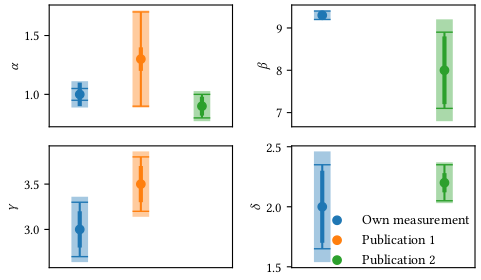
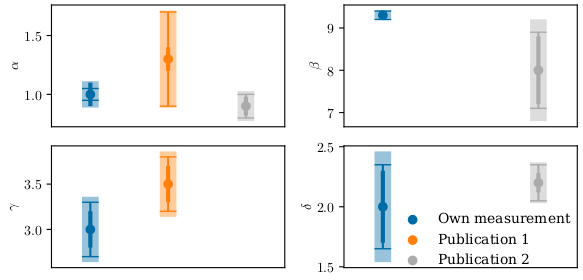
Updated README, fixed CompareMeasurementsPlot facecolor bug, changed example figures background from transparent to white

diff --git a/examples/compare_results.py b/examples/compare_results.py
@@ -38,7 +38,7 @@ def get_example_measurements():
 @timer
 def make_plot(measurements, **kwargs):
     compare_plot = CompareMeasurementsPlot(*measurements, **kwargs)
-    fig, axs, handles, labels = compare_plot.plot(ncols=3)
+    fig, axs, handles, labels = compare_plot.plot(ncols=2)
     fig.legend(handles, labels, loc="lower right", bbox_to_anchor=(0.985, 0.035), frameon=False)
     fig.tight_layout()
 
@@ -47,11 +47,11 @@ def make_plot(measurements, **kwargs):
 
 if __name__ == "__main__":
     # from visdata.plotting.matplotlib_util import latex_output, save_plot
-    # with latex_output():
+    # with latex_output(figsize=(6, 3), style="tableau-colorblind10"):
     measurements = get_example_measurements()
     fig = make_plot(measurements)
-    # save_plot(fig, "compare_measurements.pdf")
-    # save_plot(fig, "compare_measurements.png")
+    # save_plot(fig, "./doc/figs/compare_measurements.pdf", transparent=False)
+    # save_plot(fig, "./doc/figs/compare_measurements.png", transparent=False)
     plt.show()
 
     # config = MeasurementResultPlotConfig()

diff --git a/examples/profile2d.py b/examples/profile2d.py
@@ -77,7 +77,7 @@ if __name__ == "__main__":
     compare_to_old_filter = False
 
     # from visdata.plotting.matplotlib_util import latex_output, save_plot
-    # with latex_output():
+    # with latex_output(style="tableau-colorblind10"):
 
     # Example with random data
     n_events = 500
@@ -89,7 +89,8 @@ if __name__ == "__main__":
     ax.set_ylim(-0.3, 0.3)
 
     plt.show()
-    # save_plot(fig, "profile2d_example_1.png")
+    # save_plot(fig, "./doc/figs/profile2d_example_1.pdf", transparent=False)
+    # save_plot(fig, "./doc/figs/profile2d_example_1.png", transparent=False)
 
     # Example with predefined data
     x, y = create_fixed_hist2d_data()
@@ -98,4 +99,5 @@ if __name__ == "__main__":
     ax.set_ylabel(r"$(S_\text{meas} - S_\text{mod})/\text{mV}$")
 
     plt.show()
-    # save_plot(fig, "profile2d_example_2.png")
+    # save_plot(fig, "./doc/figs/profile2d_example_2.pdf", transparent=False)
+    # save_plot(fig, "./doc/figs/profile2d_example_2.png", transparent=False)

diff --git a/src/visdata/plotting/compare_results.py b/src/visdata/plotting/compare_results.py
@@ -107,6 +107,7 @@ class MeasurementResult:
             self.value,
             label=label,
             color=color,
+            edgecolor="face",
             marker=marker,
             **config.value,
         )

diff --git a/README.md b/README.md
@@ -2,7 +2,12 @@
 
 **Useful tools for data visualisation, e.g. 2D-profiles, comparison of measurements, or tables.**
 
-Developed and maintained by Philipp Meder.
+***This package is still under development. The features work, but the API might change in the future.***
+
+Developed and maintained by [Philipp Meder](https://github.com/philippmeder).
+
+* **Source code:** https://github.com/philippmeder/visdata
+* **Report bugs:** https://github.com/philippmeder/visdata/issues
 
 ## License
 
@@ -11,14 +16,14 @@ Distributed under the [BSD 3-Clause License](./LICENSE).
 ## Features
 
 This README covers the following:
-1. [Profile2d plot for 2D-histograms](#profile2d-plot-for-2d-histograms)
-2. [Visual comparison of measurements](#visual-comparison-of-measurements-including-uncertainties)
-3. [Table output for terminal, CSV, and $\LaTeX$](#formatted-table-output-for-terminal-csv-and)
-4. [Further features](#further-content)
+1. [Profile2d Plot for 2D-histograms](#profile2d-plot-for-2d-histograms)
+2. [Visual Comparison of Measurements](#visual-comparison-of-measurements-including-uncertainties)
+3. [Table Output for Terminal, CSV, and $\LaTeX$](#formatted-table-output-for-terminal-csv-and)
+4. [Additional Features](#additional-features)
 
 Check out the [examples](./examples)!
 
-### Profile2d plot for 2D-histograms
+### Profile2d Plot for 2D-histograms
 Profiles allow a visual interpretation of the data, e.g. in the following figures where red markers represent the mean with the standard error on the mean and pink markers represent the median of the y-data in each x-bin:
 
 Profile shows an angle-dependent deviation from the zero line | Profile shows deviations from the model
@@ -43,11 +48,14 @@ profile = Profile2d(x, y, bins=10)
 profile.add_to_axis(ax)
 ```
 
-### Visual comparison of measurements including uncertainties
+### Visual Comparison of Measurements Including Uncertainties
 
 Sometimes it is easier to understand if different measurements are compatible with each other by looking at a visualisation, e.g. you want to compare your own measurements of some parameters with the measurements presented in other publications with respect to the uncertainties.
+The example shows
+- *statistical uncertainties* as medium thick errorbars,
+- *systematic uncertainties* as thin errorbars with caps,
+- *quadratic combination* of both as thick errobars with transparency (for visual guidance only, this value is meaningless).
 
-The figure shows the statistical uncertainties as medium thick errorbars, the systematic uncertainties as thin errorbars with caps, and the quadratic combination of both as thick errobars with transparency (for visual guidance only, there is no such thing as a combination of systematic and statistical uncertainty).
 You can  of course configure what and how to plot.
 In this example, *Publication 1* did not provide any values for $\beta$ and $\delta$ while *Publication 2* did not provide a value for $\gamma$.
 
@@ -78,7 +86,7 @@ fig, axs, handles, labels = comp_plot.plot()
 ...
 ```
 
-### Formatted table output for terminal, CSV, and $\LaTeX$
+### Formatted Table Output for Terminal, CSV, and $\LaTeX$
 
 Create a Table object from a 2D-array and get the wanted output, either as a nice terminal output, a CSV table, or a $\LaTeX$ table ready for your document.
 You can name the columns and rows independently and add a caption if you want. Furthermore, you can specify a formatter for the data.
@@ -116,9 +124,19 @@ A1              3.00e+00      4.00e+00      5.00e+00
 ────────────────────────────────────────────────────
 ```
 
-### Further content
+### Additional Features
 - Decorators for code development, e.g. timer for function execution
 - Intervals
 - Functions like secans or cos called with angle in degrees
 - Regular polygons for plotting and calculation of their most important properties
 - Some utilities for matplotlib output
+
+## Installation and Requirements
+
+You will need ``numpy`` and ``matplotlib`` in addition to  ``python 3.13`` (other python version might work but were not tested). You can get the newest version using ``pip`` from the [github repository](https://github.com/philippmeder/visdata):
+
+```
+pip install git+https://github.com/philippmeder/visdata
+```
+
+An official PyPI release should be available in the near future.
